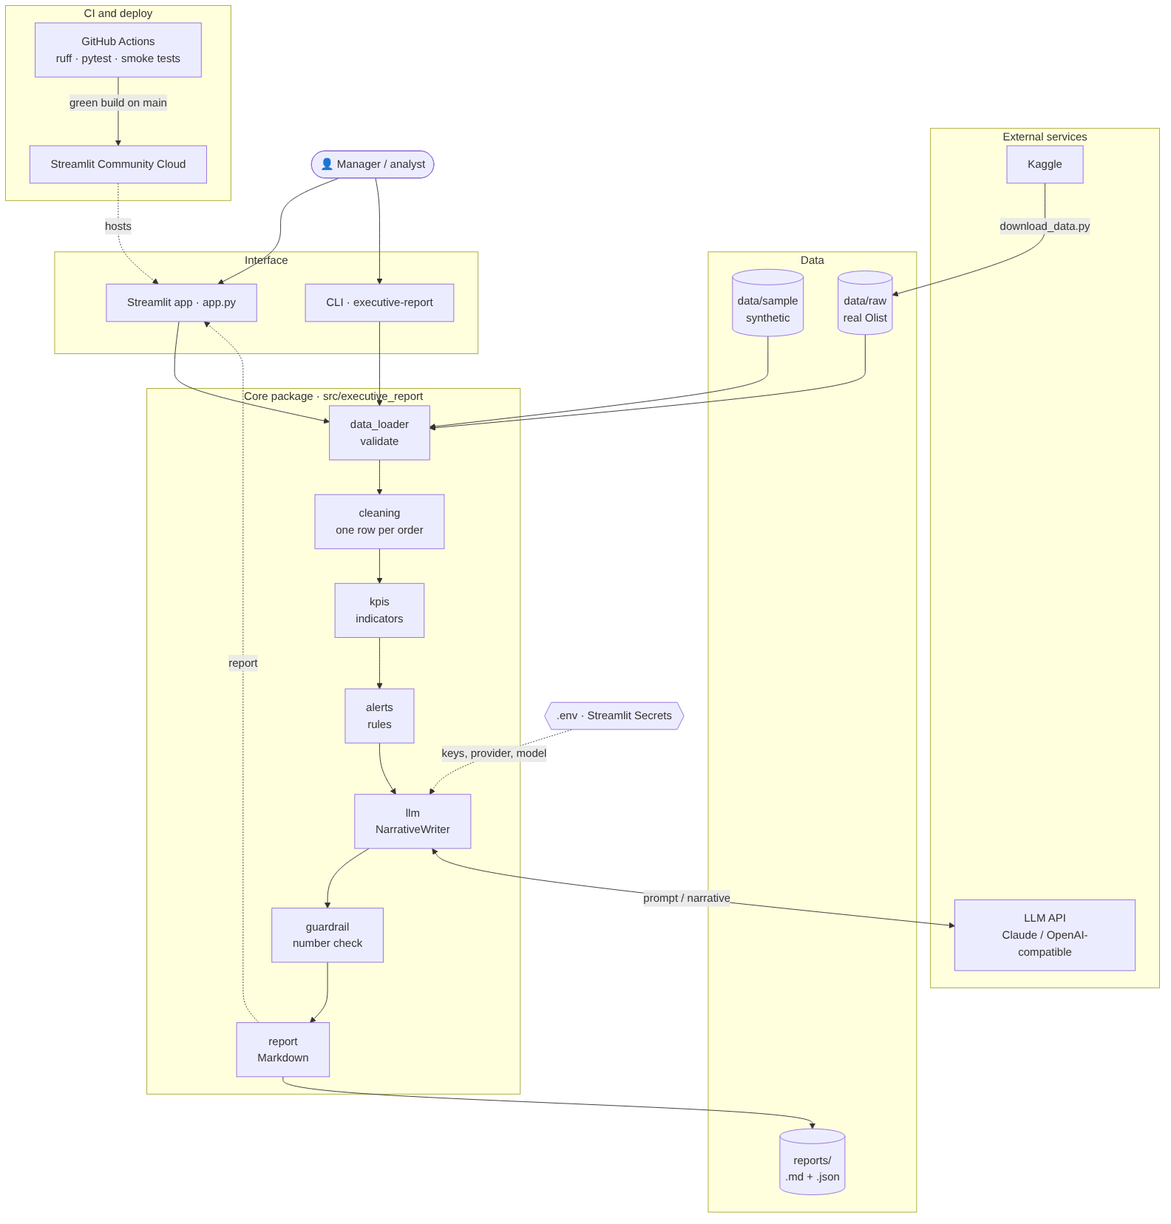
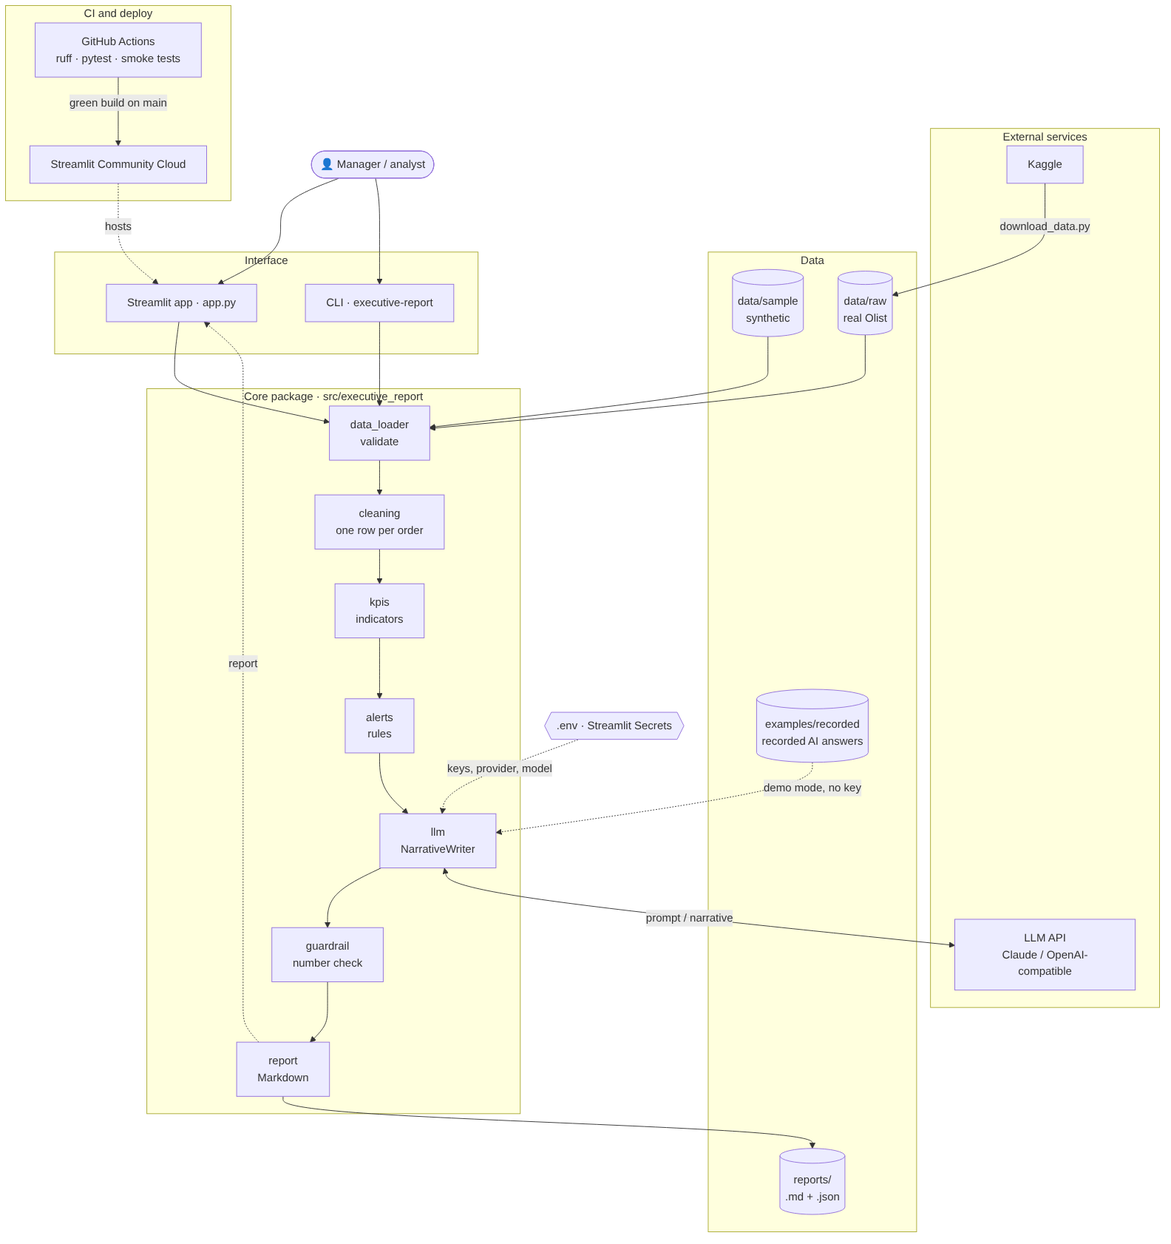
docs: link the demo and GitHub profile, reorder the README and document the demo mode
Claude-Session: https://claude.ai/code/session_01J2vdGuz42gkQwDVf2BKwJx

diff --git a/README.md b/README.md
@@ -1,14 +1,14 @@
 # 📊 AI Executive Report
 
-[![CI](https://github.com/YOUR_GITHUB_USERNAME/ai-executive-report/actions/workflows/ci.yml/badge.svg)](https://github.com/YOUR_GITHUB_USERNAME/ai-executive-report/actions/workflows/ci.yml)
+[![CI](https://github.com/rafauto/ai-executive-report/actions/workflows/ci.yml/badge.svg)](https://github.com/rafauto/ai-executive-report/actions/workflows/ci.yml)
 [![Python](https://img.shields.io/badge/python-3.10%20%7C%203.12-blue)](https://www.python.org/)
 [![License: MIT](https://img.shields.io/badge/license-MIT-green)](LICENSE)
 [![Status](https://img.shields.io/badge/status-v1.0%20complete-brightgreen)](#-project-status-and-roadmap)
-[![Open in Streamlit](https://static.streamlit.io/badges/streamlit_badge_black_white.svg)](https://YOUR-APP.streamlit.app)
+[![Open in Streamlit](https://static.streamlit.io/badges/streamlit_badge_black_white.svg)](https://ai-executive-report.streamlit.app)
 
 Automated monthly executive report for a Brazilian e-commerce: Python computes the KPIs and alerts, and an LLM writes the narrative. It runs on the public Olist dataset and cuts a 5-hour reporting routine down to about 10 minutes, including human review.
 
-**🔗 Live demo: [YOUR-APP.streamlit.app](https://YOUR-APP.streamlit.app)** · no sign-up and no API key needed (demo mode with sample data)
+**🔗 Live demo: [ai-executive-report.streamlit.app](https://ai-executive-report.streamlit.app)** · no sign-up and no API key needed (demo mode with sample data and recorded AI answers)
 
 <!-- TODO: replace with a GIF of the Streamlit app (docs/screenshots/app-demo.gif) -->
 <img src="docs/screenshots/report-example.png" alt="Executive report generated for August 2018, showing a KPI table comparing revenue, orders and delivery metrics with the previous month, a list of color-coded alerts, and AI-written summary, alert analysis and recommendations in Portuguese" width="720">
@@ -36,10 +36,36 @@ I work across product, data and processes, and this project is the next step in 
 - **Rule-based alerts with severity**: revenue drop, late deliveries concentrated in one state, category decline, low satisfaction and more.
 - **LLM-written narrative**: executive summary, alert analysis, highlights and recommendations, in Brazilian Portuguese for a Brazilian leadership team.
 - **Guardrail against invented numbers**: tables are rendered by Python, and every R$ or % value the LLM quotes is checked against the computed data.
-- **Provider-agnostic**: Claude (Anthropic), any OpenAI-compatible API (OpenAI, Groq, Gemini, Ollama) or an `offline` mode with no AI and no cost.
+- **Provider-agnostic**: Claude (Anthropic), any OpenAI-compatible API (OpenAI, Groq, Gemini, Ollama), replayed `recorded` answers or a rule-based `offline` mode.
+- **Demo mode without a key**: the public app replays real AI answers recorded for the sample data, so visitors see genuine output at no cost.
 - **Resilient**: timeouts and retries on LLM calls; if the provider fails, the app falls back to the offline narrative instead of breaking.
-- **AI evaluation**: a fixed set of cases scores every narrative on five checks, so prompt or provider changes can be compared.
+- **AI evaluation**: a fixed set of cases scores every narrative on five checks against a minimum target of 80%, so prompt or provider changes can be compared.
 - **Streamlit web app**: KPI cards, charts, the full report and a time-saved panel.
+
+## 📈 Example output
+
+August 2018 on the synthetic sample (fictitious numbers). Full report: [examples/report_2018-08_sample_offline.md](examples/report_2018-08_sample_offline.md) · metrics: [examples/metrics_2018-08_sample_offline.json](examples/metrics_2018-08_sample_offline.json).
+
+| Indicator | 2018-08 | 2018-07 | Change |
+|---|---:|---:|---:|
+| Revenue | R$ 134,937.19 | R$ 155,911.59 | -13.4% |
+| Orders | 634 | 737 | -14.0% |
+| Average ticket | R$ 212.83 | R$ 211.55 | +0.6% |
+| Late deliveries | 8.1% | 1.1% | +7.0 p.p. |
+| Average review score | 4.06 | 4.28 | -0.22 |
+
+| Severity | Alert raised |
+|---|---|
+| 🔴 high | Late deliveries concentrated in RJ: 31.1% of 103 deliveries |
+| 🟠 medium | Revenue down 13.4% vs. July |
+| 🟠 medium | Orders down 14.0% vs. July |
+| 🟠 medium | "moveis decoracao" category revenue down 31.7% |
+
+Evaluation of the offline writer on the 5 fixed cases: **100% pass rate** (`python scripts/run_eval.py --provider offline`).
+
+<!-- TODO: add the eval pass rate and benchmark for Claude on the real data:
+python scripts/run_eval.py --provider anthropic --data-dir data/raw
+python scripts/benchmark.py --runs 5 --provider anthropic -->
 
 ## 🛠 Tech stack
 
@@ -53,6 +79,66 @@ I work across product, data and processes, and this project is the next step in 
 | Dev environment | venv, Dev Container (GitHub Codespaces) |
 | Deploy | Streamlit Community Cloud |
 | Data source | [Brazilian E-Commerce Public Dataset by Olist](https://www.kaggle.com/datasets/olistbr/brazilian-ecommerce) (Kaggle) |
+
+## 🏗 Architecture
+
+```mermaid
+flowchart TB
+    user(["👤 Manager / analyst"])
+
+    subgraph ui["Interface"]
+        app["Streamlit app · app.py"]
+        cli["CLI · executive-report"]
+    end
+
+    subgraph core["Core package · src/executive_report"]
+        loader["data_loader<br/>validate"] --> cleaning["cleaning<br/>one row per order"] --> kpis["kpis<br/>indicators"] --> alerts["alerts<br/>rules"] --> llm["llm<br/>NarrativeWriter"] --> guard["guardrail<br/>number check"] --> report["report<br/>Markdown"]
+    end
+
+    subgraph data["Data"]
+        sample[("data/sample<br/>synthetic")]
+        recorded[("examples/recorded<br/>recorded AI answers")]
+        raw[("data/raw<br/>real Olist")]
+        out[("reports/<br/>.md + .json")]
+    end
+
+    subgraph ext["External services"]
+        kaggle["Kaggle"]
+        llmapi["LLM API<br/>Claude / OpenAI-compatible"]
+    end
+
+    secrets{{".env · Streamlit Secrets"}}
+
+    subgraph ops["CI and deploy"]
+        gha["GitHub Actions<br/>ruff · pytest · smoke tests"] -->|green build on main| cloud["Streamlit Community Cloud"]
+    end
+
+    user --> app
+    user --> cli
+    app --> loader
+    cli --> loader
+    sample --> loader
+    raw --> loader
+    kaggle -->|download_data.py| raw
+    llm <-->|prompt / narrative| llmapi
+    recorded -.->|demo mode, no key| llm
+    secrets -.->|keys, provider, model| llm
+    report --> out
+    report -.->|report| app
+    cloud -.->|hosts| app
+```
+
+The user picks a month in the app or the CLI, and the core package loads the CSVs, computes KPIs and applies the alert rules. Only then does the LLM receive the numbers as JSON and write the narrative (in the key-less demo, a recorded answer is replayed instead); the guardrail checks every number it quotes before the report is rendered and saved. Keys come from `.env` or Streamlit Secrets, and GitHub Actions validates every change that Streamlit Cloud deploys.
+
+**Layers:** interface (`app.py`, `cli.py`) · business rules (`kpis`, `alerts`, `guardrail`) · data access (`data_loader`, `cleaning`) · external integrations (`llm`, behind the `NarrativeWriter` interface). Diagram source: [docs/architecture.mmd](docs/architecture.mmd).
+
+**Key design decisions** (details in [docs/decisions/](docs/decisions/)):
+
+1. [The LLM writes, code calculates](docs/decisions/0001-llm-writes-code-calculates.md): numbers never depend on the model.
+2. [Synthetic sample for the demo](docs/decisions/0002-synthetic-sample-for-demo.md): one-click demo and CI with no licensed data.
+3. [Provider-agnostic writers](docs/decisions/0003-provider-agnostic-writers.md): switch LLMs by configuration and test with fakes.
+
+More on the pipeline: [docs/architecture.md](docs/architecture.md).
 
 ## 📁 Project structure
 
@@ -70,11 +156,11 @@ ai-executive-report/
 │   ├── architecture.*      # diagram source (.mmd) and image (.png), design notes (.md)
 │   ├── product-brief.md    # problem, persona, success criteria, MVP hypothesis
 │   └── time-measurement.md # how time saved is measured
-├── examples/               # sample report and metrics output
+├── examples/               # sample report, metrics and recorded AI answers (recorded/)
 ├── reports/                # generated reports (git-ignored)
-├── scripts/                # Kaggle download, sample generator, benchmark, evaluation
+├── scripts/                # Kaggle download, sample generator, benchmark, eval, recording
 ├── src/executive_report/   # main package: load → clean → KPIs → alerts → LLM → report
-├── tests/                  # pytest suite (runs offline, LLM calls mocked)
+├── tests/                  # pytest suite (offline, LLM calls mocked) and fixtures/
 ├── app.py                  # Streamlit app
 ├── CHANGELOG.md            # changes per version
 ├── pyproject.toml          # metadata, dependencies and Ruff/pytest settings
@@ -95,7 +181,7 @@ ai-executive-report/
 **1. Clone the repository**
 
 ```bash
-git clone https://github.com/YOUR_GITHUB_USERNAME/ai-executive-report.git
+git clone https://github.com/rafauto/ai-executive-report.git
 cd ai-executive-report
 ```
 
@@ -147,7 +233,8 @@ streamlit run app.py             # web app at http://localhost:8501
 ```bash
 executive-report                           # latest complete month
 executive-report --month 2018-06           # specific month (validated against the data)
-executive-report --provider offline        # demo mode: no AI, no key, no cost
+executive-report --provider recorded       # demo mode: replays recorded AI answers (sample data)
+executive-report --provider offline        # rule-based text: no AI, no key, no cost
 executive-report --provider openai --model llama-3.3-70b-versatile   # e.g. Groq
 executive-report --verbose                 # detailed logs
 ```
@@ -179,7 +266,7 @@ print(result.total_seconds)  # generation time
 
 | Variable | Default | Description |
 |---|---|---|
-| `LLM_PROVIDER` | `anthropic` | `anthropic`, `openai` or `offline` |
+| `LLM_PROVIDER` | `anthropic` | `anthropic`, `openai`, `recorded` or `offline` |
 | `LLM_MODEL` | provider default | e.g. `claude-sonnet-5-5`, `gpt-4o-mini` |
 | `ANTHROPIC_API_KEY` | – | Anthropic key |
 | `OPENAI_API_KEY` / `OPENAI_BASE_URL` | – | key and URL for any OpenAI-compatible API |
@@ -189,109 +276,26 @@ print(result.total_seconds)  # generation time
 
 Alert thresholds are in `AlertThresholds` (`src/executive_report/config.py`).
 
-## 📈 Example output
-
-August 2018 on the synthetic sample (fictitious numbers). Full report: [examples/report_2018-08_sample_offline.md](examples/report_2018-08_sample_offline.md) · metrics: [examples/metrics_2018-08_sample_offline.json](examples/metrics_2018-08_sample_offline.json).
-
-| Indicator | 2018-08 | 2018-07 | Change |
-|---|---:|---:|---:|
-| Revenue | R$ 134,937.19 | R$ 155,911.59 | -13.4% |
-| Orders | 634 | 737 | -14.0% |
-| Average ticket | R$ 212.83 | R$ 211.55 | +0.6% |
-| Late deliveries | 8.1% | 1.1% | +7.0 p.p. |
-| Average review score | 4.06 | 4.28 | -0.22 |
-
-| Severity | Alert raised |
-|---|---|
-| 🔴 high | Late deliveries concentrated in RJ: 31.1% of 103 deliveries |
-| 🟠 medium | Revenue down 13.4% vs. July |
-| 🟠 medium | Orders down 14.0% vs. July |
-| 🟠 medium | "moveis decoracao" category revenue down 31.7% |
-
-Evaluation of the offline writer on the 5 fixed cases: **100% pass rate** (`python scripts/run_eval.py --provider offline`).
-
-<!-- TODO: add the eval pass rate and benchmark for Claude on the real data:
-python scripts/run_eval.py --provider anthropic --data-dir data/raw
-python scripts/benchmark.py --runs 5 --provider anthropic -->
-
-## 🏗 Architecture
-
-```mermaid
-flowchart TB
-    user(["👤 Manager / analyst"])
-
-    subgraph ui["Interface"]
-        app["Streamlit app · app.py"]
-        cli["CLI · executive-report"]
-    end
-
-    subgraph core["Core package · src/executive_report"]
-        loader["data_loader<br/>validate"] --> cleaning["cleaning<br/>one row per order"] --> kpis["kpis<br/>indicators"] --> alerts["alerts<br/>rules"] --> llm["llm<br/>NarrativeWriter"] --> guard["guardrail<br/>number check"] --> report["report<br/>Markdown"]
-    end
-
-    subgraph data["Data"]
-        sample[("data/sample<br/>synthetic")]
-        raw[("data/raw<br/>real Olist")]
-        out[("reports/<br/>.md + .json")]
-    end
-
-    subgraph ext["External services"]
-        kaggle["Kaggle"]
-        llmapi["LLM API<br/>Claude / OpenAI-compatible"]
-    end
-
-    secrets{{".env · Streamlit Secrets"}}
-
-    subgraph ops["CI and deploy"]
-        gha["GitHub Actions<br/>ruff · pytest · smoke tests"] -->|green build on main| cloud["Streamlit Community Cloud"]
-    end
-
-    user --> app
-    user --> cli
-    app --> loader
-    cli --> loader
-    sample --> loader
-    raw --> loader
-    kaggle -->|download_data.py| raw
-    llm <-->|prompt / narrative| llmapi
-    secrets -.->|keys, provider, model| llm
-    report --> out
-    report -.->|report| app
-    cloud -.->|hosts| app
-```
-
-The user picks a month in the app or the CLI, and the core package loads the CSVs, computes KPIs and applies the alert rules. Only then does the LLM receive the numbers as JSON and write the narrative; the guardrail checks every number it quotes before the report is rendered and saved. Keys come from `.env` or Streamlit Secrets, and GitHub Actions validates every change that Streamlit Cloud deploys.
-
-**Layers:** interface (`app.py`, `cli.py`) · business rules (`kpis`, `alerts`, `guardrail`) · data access (`data_loader`, `cleaning`) · external integrations (`llm`, behind the `NarrativeWriter` interface). Diagram source: [docs/architecture.mmd](docs/architecture.mmd).
-
-**Key design decisions** (details in [docs/decisions/](docs/decisions/)):
-
-1. [The LLM writes, code calculates](docs/decisions/0001-llm-writes-code-calculates.md): numbers never depend on the model.
-2. [Synthetic sample for the demo](docs/decisions/0002-synthetic-sample-for-demo.md): one-click demo and CI with no licensed data.
-3. [Provider-agnostic writers](docs/decisions/0003-provider-agnostic-writers.md): switch LLMs by configuration and test with fakes.
-
-More on the pipeline: [docs/architecture.md](docs/architecture.md).
-
 ## 🧪 Running the tests
 
 ```bash
 pytest                 # unit, integration, regression and app smoke tests, fully offline
 ruff check .           # lint
 ruff format --check .  # formatting (run `ruff format .` to fix)
-python scripts/run_eval.py --provider offline   # AI evaluation harness
+python scripts/run_eval.py --provider offline   # AI evaluation harness (target: 80% or more)
 ```
 
 Tests never call a real API: LLM SDKs are mocked and the pipeline accepts a fake writer. CI runs all of the above on Python 3.10 and 3.12 for every push and pull request, plus an end-to-end CLI run in demo mode.
 
 ## ☁ Deployment
 
-The live demo runs on **Streamlit Community Cloud** from the `main` branch: [YOUR-APP.streamlit.app](https://YOUR-APP.streamlit.app).
+The live demo runs on **Streamlit Community Cloud** from the `main` branch: [ai-executive-report.streamlit.app](https://ai-executive-report.streamlit.app).
 
 To publish your own copy:
 
-1. Fork this repository and sign in at [share.streamlit.io](https://share.streamlit.io) with GitHub.
-2. **Create app** → your fork, branch `main`, main file `app.py`.
-3. Under **Advanced settings → Secrets**, paste `.streamlit/secrets.toml.example` with your key. Without a key, the app runs in demo mode.
+1. Fork this repository and sign in at [share.streamlit.io](https://share.streamlit.io) with GitHub. Optionally record real AI answers for the demo first: `python scripts/record_responses.py --provider anthropic`, then commit `examples/recorded/`.
+2. **Create app** → your fork, branch `main`, main file `app.py`, and pick the app URL (this demo uses `ai-executive-report`).
+3. Under **Advanced settings → Secrets**, paste `.streamlit/secrets.toml.example` with your key. Without a key, the app runs in demo mode: recorded answers when `examples/recorded/` has them, rule-based text otherwise.
 4. Click **Deploy**. Streamlit Cloud redeploys on every push to `main`, so protect `main` and merge only pull requests with a green CI.
 
 **Rollback:** every version is a Git tag (`v0.1.0`, `v1.0.0`). To go back, revert the faulty commit on `main` (`git revert <sha>`) or check out the last good tag. The demo data is regenerated with `python scripts/generate_sample_data.py`.
@@ -312,6 +316,7 @@ To publish your own copy:
 
 - **Fictitious demo data:** the live demo and `data/sample/` use **synthetic data**. It follows the Olist schema, but its numbers are not real. For a real analysis, download the original dataset.
 - **No private data:** the project only uses public or synthetic data. Nothing comes from real companies or people, and no personal data is sent to the LLM (only aggregated numbers and category names).
+- **Recorded answers:** the demo replays answers recorded on the synthetic sample, one per month in `examples/recorded/`. Other months fall back to the rule-based text.
 - **Cost:** each report is one LLM call of a few thousand tokens, capped by `LLM_MAX_TOKENS`. The app caches reports for 24 hours and limits each session to `MAX_LLM_REPORTS_PER_SESSION` AI reports. `offline` mode costs nothing.
 - **API keys:** read from `.env` or Streamlit Secrets, never stored in code. A key typed into the app is used only in that session and never saved.
 - **Prompt injection:** labels from the data are sanitized and the prompt tells the model to treat the JSON as data only. This lowers the risk but doesn't remove it.
@@ -329,4 +334,5 @@ Released under the [MIT License](LICENSE).
 
 ## 👤 Author
 
-**Rafaela Uto** · [LinkedIn](https://www.linkedin.com/in/YOUR_LINKEDIN) · [GitHub](https://github.com/YOUR_GITHUB_USERNAME)
+**Rafaela Uto** · [GitHub](https://github.com/rafauto)
+<!-- TODO: add the LinkedIn profile link next to GitHub -->

diff --git a/CHANGELOG.md b/CHANGELOG.md
@@ -6,14 +6,16 @@ The format follows [Keep a Changelog](https://keepachangelog.com/en/1.1.0/) and 
 ## [1.0.0] - 2026-11-02
 
 ### Added
-- `NarrativeWriter` interface with Anthropic, OpenAI-compatible and offline writers.
+- `NarrativeWriter` interface with Anthropic, OpenAI-compatible, recorded and offline writers.
+- Demo mode without an API key: the `recorded` provider replays real LLM answers saved by
+  `scripts/record_responses.py` (answers that fail the number guardrail are never saved).
 - LLM timeouts, retries and a clear `NarrativeError` for provider failures.
 - Offline fallback in the Streamlit app when the AI provider fails (failures are not cached).
 - Per-session limit of AI reports in the public demo (`MAX_LLM_REPORTS_PER_SESSION`).
-- Evaluation harness (`scripts/run_eval.py`) with five fixed cases and five quality checks.
+- Evaluation harness (`scripts/run_eval.py`) with five fixed cases, five quality checks and an 80% minimum target.
 - Input validation for the reference month and sanitized category labels (prompt-injection defense).
 - Prompt rule to treat the JSON payload as data only.
-- Integration, regression and Streamlit smoke tests; eval smoke test in CI.
+- Integration, regression and Streamlit smoke tests with test fixtures; eval smoke test in CI.
 - Dependabot, issue and pull request templates, ADRs, product brief and this changelog.
 - `--verbose` flag with logging in the CLI.
 
@@ -39,5 +41,5 @@ MVP: the main flow works end to end.
 - Signed absolute changes in the KPI table (`+3,8` instead of `3,80`).
 - A visitor's API key is never written to `os.environ`, which is shared across app sessions.
 
-[1.0.0]: https://github.com/YOUR_GITHUB_USERNAME/ai-executive-report/compare/v0.1.0...v1.0.0
-[0.1.0]: https://github.com/YOUR_GITHUB_USERNAME/ai-executive-report/releases/tag/v0.1.0
+[1.0.0]: https://github.com/rafauto/ai-executive-report/compare/v0.1.0...v1.0.0
+[0.1.0]: https://github.com/rafauto/ai-executive-report/releases/tag/v0.1.0

diff --git a/CLAUDE.md b/CLAUDE.md
@@ -16,7 +16,8 @@ pytest                                         # tests (offline, LLM calls are m
 ruff check . && ruff format --check .          # lint + formatting
 executive-report --provider offline            # generate a report without an API key
 streamlit run app.py                           # web app
-python scripts/run_eval.py --provider offline  # narrative evaluation
+python scripts/run_eval.py --provider offline  # narrative evaluation (target 80%)
+python scripts/record_responses.py --provider anthropic  # refresh demo answers (needs a key)
 python scripts/generate_sample_data.py         # rebuild data/sample (synthetic)
 mmdc -i docs/architecture.mmd -o docs/architecture.png -b white   # re-render the diagram
 ```
@@ -28,7 +29,7 @@ mmdc -i docs/architecture.mmd -o docs/architecture.png -b white   # re-render th
 - LLM providers implement `NarrativeWriter` in `llm.py`; only that module imports an SDK.
 - Alert rules live in `alerts.py`; thresholds in `AlertThresholds` (`config.py`).
 - Report text uses Brazilian number format (`1.234,56`, `12,3%`) via `formatting.py`.
-- Tests must run offline: inject `tests/helpers.FakeWriter` or mock the SDK module.
+- Tests must run offline: inject `tests/helpers.FakeWriter`, use `tests/fixtures/` or mock the SDK module.
   Every bug fix gets a regression test.
 - Never commit `.env`, `.streamlit/secrets.toml` or files in `data/raw/`.
 - Only public or synthetic data. Do not mention employers or clients anywhere.

diff --git a/docs/architecture.md b/docs/architecture.md
@@ -9,7 +9,7 @@ The diagram lives in the [README](../README.md#-architecture); its source is [ar
 | Interface | `app.py` (Streamlit), `cli.py` |
 | Business rules | `kpis.py`, `alerts.py`, `guardrail.py`, `report.py` |
 | Data access | `data_loader.py`, `cleaning.py` |
-| External integrations | `llm.py` (`NarrativeWriter` implementations) |
+| External integrations | `llm.py` (`NarrativeWriter` implementations: Anthropic, OpenAI-compatible, recorded, offline) |
 | Orchestration and config | `pipeline.py`, `config.py`, `timing.py` |
 
 ## Flow
@@ -51,7 +51,11 @@ Prompt-injection defense: category labels are sanitized in `cleaning.clean_label
 python scripts/run_eval.py --provider anthropic
 ```
 
-CI runs it with the offline writer to keep the harness working.
+The default target is 80% (`--min-pass-rate`); the script exits with an error below it. CI runs it with the offline writer to keep the harness working.
+
+## Demo mode without a key
+
+`scripts/record_responses.py` runs a real provider on the synthetic sample for the evaluation months and saves each answer to `examples/recorded/` (answers that fail the guardrail are skipped). The `recorded` provider replays them, so the public app shows genuine AI text with no key and no cost. Months without a recording fall back to the rule-based text.
 
 ## Providers
 

diff --git a/docs/decisions/0003-provider-agnostic-writers.md b/docs/decisions/0003-provider-agnostic-writers.md
@@ -9,7 +9,7 @@ LLM prices, quotas and quality change often. People trying the project may have 
 
 ## Decision
 
-Every provider implements the same `NarrativeWriter` interface (`write(data, alerts) -> LLMResult`). There are three writers: Anthropic (Claude), OpenAI-compatible (covers OpenAI, Groq, Gemini and Ollama through `OPENAI_BASE_URL`) and offline (rule-based). `create_writer(settings)` picks one from configuration; `run_pipeline` also accepts an injected writer. Provider errors become a `NarrativeError` with a clear message; the app can fall back to the offline writer.
+Every provider implements the same `NarrativeWriter` interface (`write(data, alerts) -> LLMResult`). There are four writers: Anthropic (Claude), OpenAI-compatible (covers OpenAI, Groq, Gemini and Ollama through `OPENAI_BASE_URL`), recorded (replays real answers saved for the demo data) and offline (rule-based). `create_writer(settings)` picks one from configuration; `run_pipeline` also accepts an injected writer. Provider errors become a `NarrativeError` with a clear message; the app can fall back to the offline writer.
 
 ## Consequences
 

diff --git a/docs/product-brief.md b/docs/product-brief.md
@@ -23,7 +23,7 @@ Secondary user: the analyst who prepares the numbers and wants to stop rewriting
 
 **In:** load and clean the Olist orders, 10 monthly KPIs vs. the previous month, rule-based alerts, an LLM-written narrative with a number check, a Markdown report and a CLI.
 
-**Out (roadmap):** PDF and scheduled email, revenue forecast, review sentiment analysis, order-level drill-down. The Streamlit app was added after the MVP so people can try it without installing anything.
+**Out (roadmap):** PDF and scheduled email, revenue forecast, review sentiment analysis, order-level drill-down. The Streamlit app and the key-less demo mode were added after the MVP so people can try it without installing anything.
 
 ## Hypothesis
 
